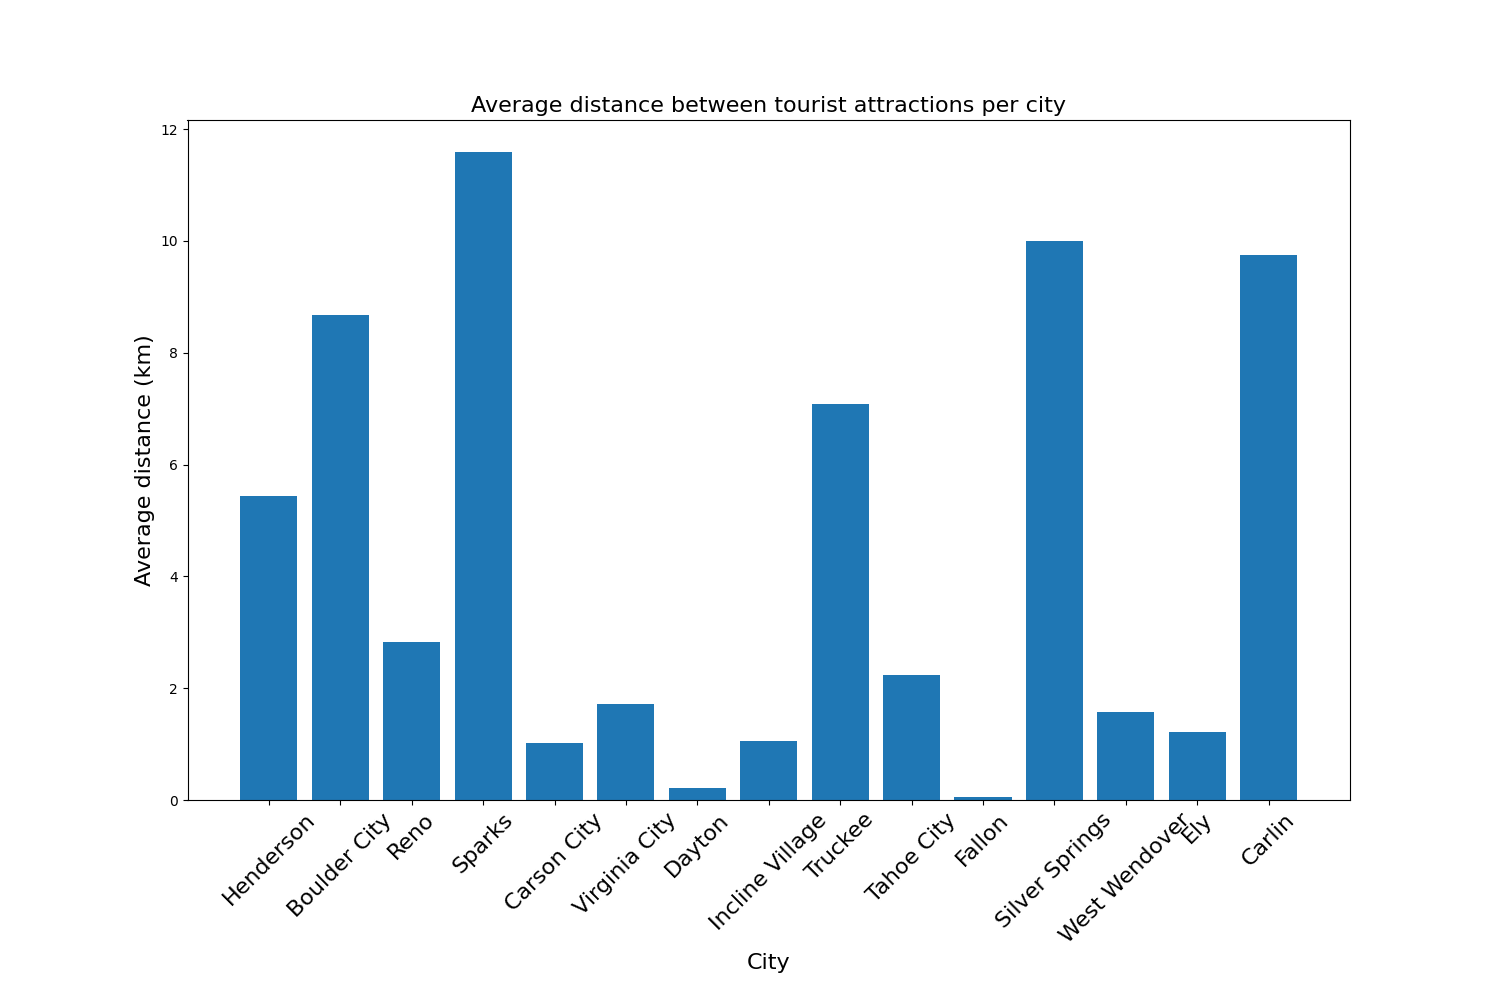
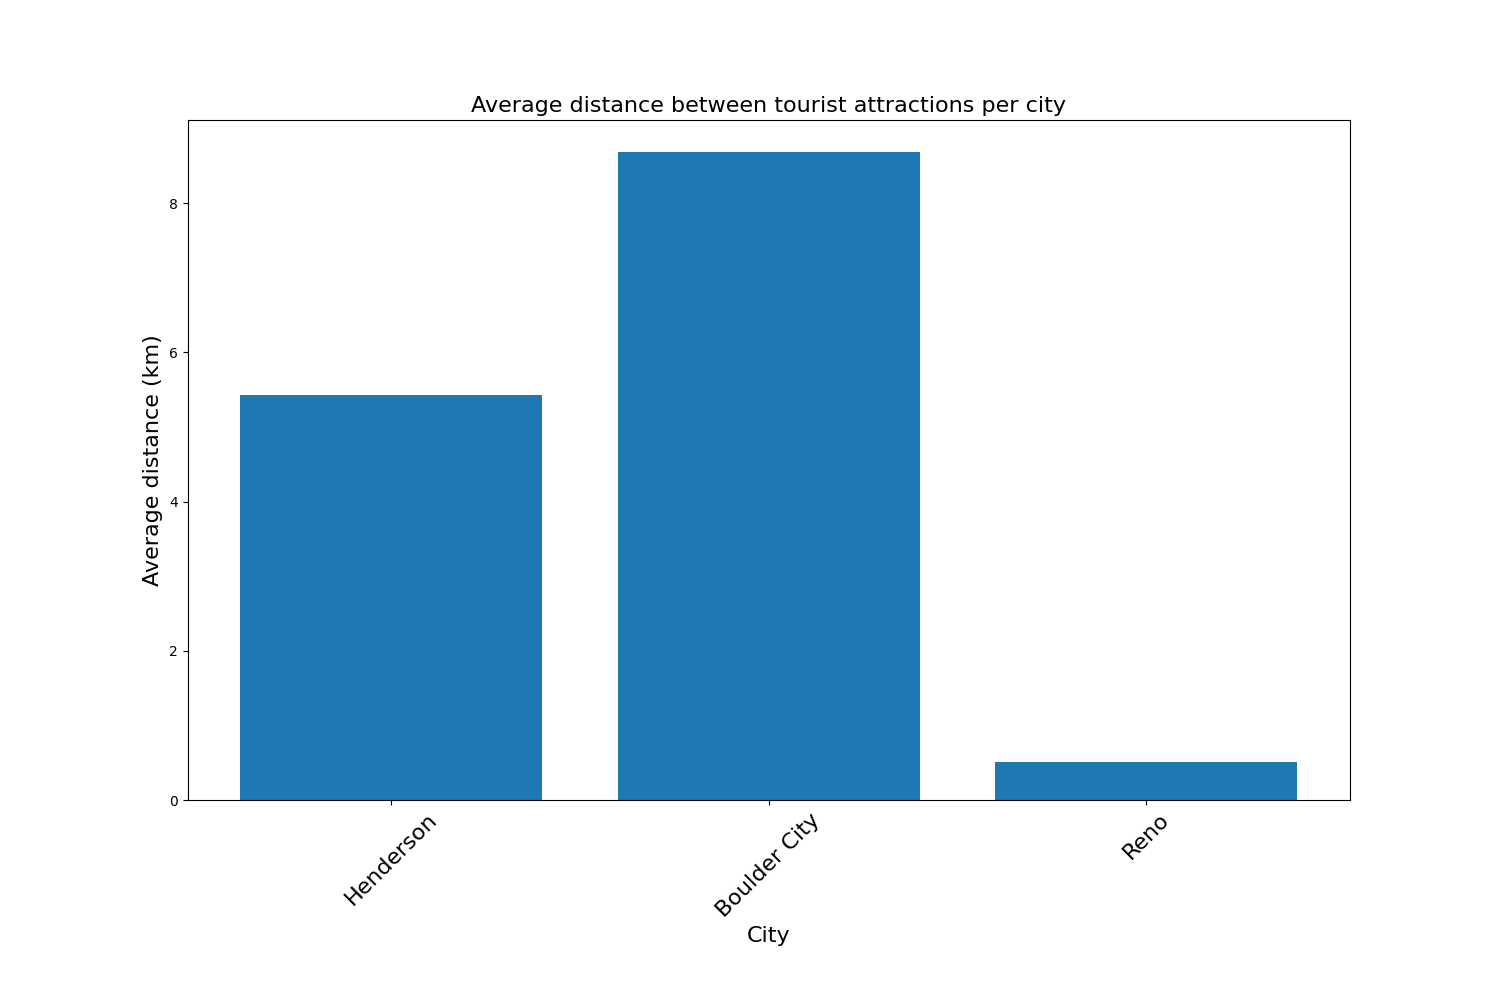
updated yelp to 25 limit

diff --git a/hotelcode.py b/hotelcode.py
@@ -7,7 +7,7 @@ import matplotlib.pyplot as plt
 #Getting API Data and storing into List
 def getYelpAPIData():
     api_key = '84yyM6N4wVI_D4s419Jt40ZzW33AUxXvmR1hHUfR4j97ce2WibAUber4MGGirF_e7RjyF0PEd_tJV6F-NfZmBM0Xakb5x3yFR8o_Eh-a81v-hDkq3dm-u-4KWfkuZHYx'
-    cities = ['Las Vegas', 'Henderson', 'Reno', 'North Las Vegas', 'Sparks', 'Carson City', 'Fernley', 'Mesquite', 'Elko', 'Boulder City', 'Fallon', 'Winnemucca']
+    cities = ['Henderson', 'Reno', 'Sparks', 'Carson City', 'Sun Valley', 'Elko', 'Boulder City', 'Fallon', 'Winnemucca']
     client = YelpAPI(api_key)
 
     hotel_list = []
@@ -17,7 +17,7 @@ def getYelpAPIData():
         params = {
             'term': 'hotel',
             'location': city,
-            'limit': 2
+            'limit': 25
         }
         response = client.search_query(**params)
 
@@ -38,16 +38,16 @@ def open_database(db_name):
     cur = conn.cursor()
     return cur, conn
 
-# def make_yelp_table(data, cur, conn):
-#     cur.execute("CREATE TABLE IF NOT EXISTS YelpData (hotel_name TEXT, city TEXT, rating INTEGER, cost TEXT)")
-#     for record in data:
-#         cur.execute("INSERT OR IGNORE INTO YelpData (hotel_name, city, rating, cost) VALUES (?, ?, ?, ?)", record)
-#     conn.commit()
 def make_yelp_table(data, cur, conn):
+    hotel_count = 0
     cur.execute("CREATE TABLE IF NOT EXISTS YelpData (hotel_name TEXT, city TEXT, rating INTEGER, cost TEXT, UNIQUE(hotel_name, city))")
     for record in data:
+        if(hotel_count >= 25):
+            break
         try:
             cur.execute("INSERT INTO YelpData (hotel_name, city, rating, cost) VALUES (?, ?, ?, ?)", record)
+            hotel_count += 1
+            
         except sqlite3.IntegrityError:
             # Handle duplicate record
             pass
@@ -60,7 +60,7 @@ def main():
     for hotel in yelpData:
         finalList.append(hotel)
    #print(finalList)
-    cur, conn = open_database('YelpData.db')
+    cur, conn = open_database('not_sin_city.db')
     make_yelp_table(finalList, cur, conn)
 
 main()

diff --git a/main.py b/main.py
@@ -14,13 +14,13 @@ import websiteCode
 
 def main():
     
-    #tomtom.tomtom_data()
+    tomtom.tomtom_data()
     websiteCode.soup_data()
     calc_visualizations.tourist_attractions_per_city()
     calc_visualizations.average_distance_between_tourist_locations_per_city()
     
-    cur, conn = calc_visualizations.open_database('YelpData.db')
-
+   
+    cur, conn = calc_visualizations.open_database('Y1elpData.db')
     high_rated = calc_visualizations.highestratedhotel(cur,conn)
     
 
